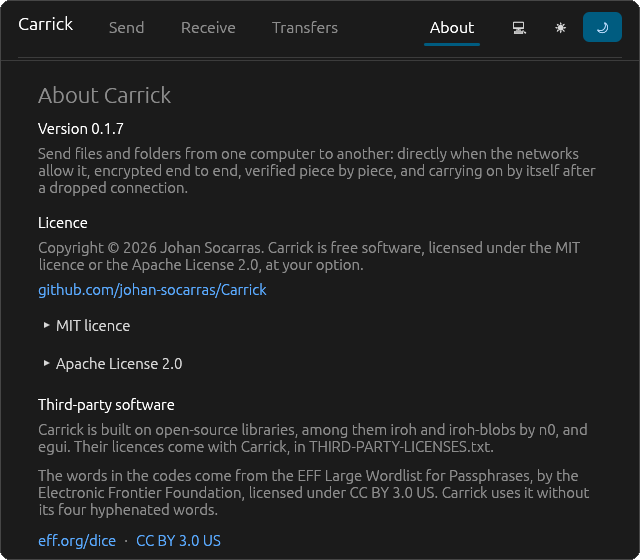
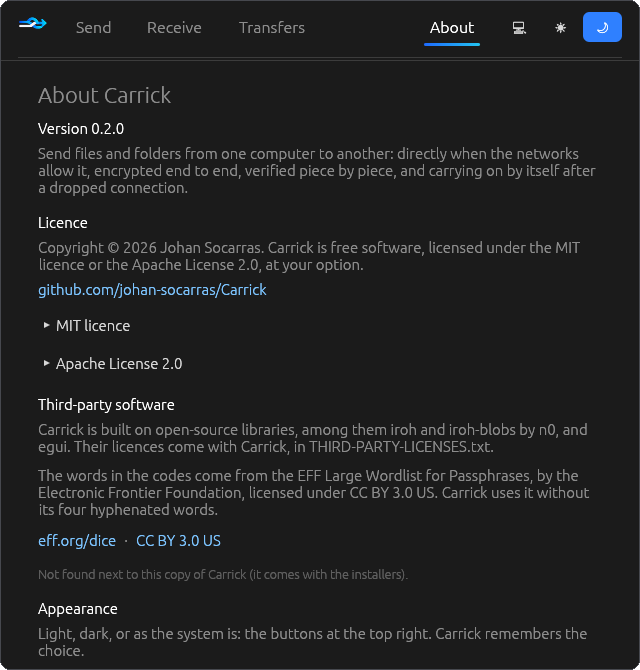
Show version 0.2.0 in the README and its screenshots
The screenshots are drawn again by the screens test, in the new colours,
and add the line of sends, a receive run by a terminal, the history and
the recent folders. The one of Unfinished goes: a send someone has in
full no longer stays there.

Changed region(s): [[0.0312, 0.0, 0.9688, 1.0], [0.0312, 0.0304, 0.5312, 0.0607]]

diff --git a/README.md b/README.md
@@ -88,27 +88,46 @@ The builds are in [Releases](https://github.com/johan-socarras/Carrick/releases)
   or keep both.
 - **Several receivers at once**, which also pass finished files to one
   another, so the sender does not have to upload everything to everyone.
+- **Sends wait in line.** A second send waits for the first instead of
+  sharing the connection with it, and **Send this first** lets an urgent one
+  go ahead; the one it passes pauses and carries on by itself after.
 - **No size, count or time limits.** Files are fingerprinted where they are,
   not copied first.
 
 ## The window
 
 `carrick-gui` has three screens, **Send**, **Receive** and **Transfers**, plus
-**About**. Drop files or a folder, and it shows the code in large type with a
-button to copy it. On the other computer, type the code, choose a folder, and
-follow the transfer: the speed now and on average, the time left and the time
-taken, and whether it goes directly or through a relay.
+**About**. Drop files or a folder, and it shows the code in large type, with
+**Copy** for the code and **Copy command** for the whole `carrick receive …`
+line, for a terminal on the other computer. On the other computer, type the
+code, choose a folder, and follow the transfer: the speed now and on average,
+the time left and the time taken, and whether it goes directly or through a
+relay.
 
 <p align="center">
-  <img src="docs/screenshots/receive-progress.png" width="49%" alt="A transfer arriving: 158 MiB of 521 MiB, directly, computer to computer">
-  <img src="docs/screenshots/transfers-sending.png" width="49%" alt="The sender's view: one receiver connected directly, 305 MiB of 521 MiB, at 305 MiB/s">
+  <img src="docs/screenshots/receive-progress.png" width="49%" alt="A transfer arriving: 30 percent of 521 MiB, at 151 MiB/s, directly, computer to computer">
+  <img src="docs/screenshots/transfers-sending.png" width="49%" alt="The sender's view: one receiver connected directly, 152 MiB of 521 MiB">
 </p>
 
-**Transfers** lists every transfer with its receivers, and what was left
-unfinished on this computer, to continue it or forget it:
+**Transfers** shows what is being copied now. A send started while another is
+on offer waits in line, and **Send this first** lets it go ahead. Transfers
+that a terminal runs on the same computer show up too, with their progress,
+instead of being offered to continue:
 
 <p align="center">
-  <img src="docs/screenshots/transfers-unfinished.png" width="60%" alt="A stopped transfer whose two receivers have everything, and below it, under Unfinished, the same transfer with Continue and Forget">
+  <img src="docs/screenshots/transfers-line.png" width="49%" alt="Two sends: one on offer, and the other paused while it goes first, with Send this first and Stop">
+  <img src="docs/screenshots/transfers-terminal.png" width="49%" alt="A receive running in a terminal on this computer: 3 GiB of 9 GiB, 40 minutes left, directly">
+</p>
+
+What ended goes to **Show history**, which keeps the last three: how large,
+when, how long it took, the average speed and the route. Below what is being
+copied, **Unfinished** lists what was stopped half way, to continue it or
+forget it. On the Receive screen, **Save to** opens with the folder used last
+time, and its arrow offers the last five:
+
+<p align="center">
+  <img src="docs/screenshots/transfers-history.png" width="49%" alt="The history: a send of 6 files and 521 MiB that took 9 seconds at 116 MiB/s on average, directly, and that 2 receivers got in full">
+  <img src="docs/screenshots/receive-recent.png" width="49%" alt="Save to with its list of recent folders open, each with a cross to take it off the list">
 </p>
 
 It is light, dark, or as the system is, from the buttons at the top right, and
@@ -139,21 +158,21 @@ On the other computer run:
 $ carrick receive dumpster-wikipedia-powwow-spectator
 Connected directly, computer to computer
 Receiving photos — 1203 file(s), 98.4 GiB
-Receiving    [==========>              ] 41.2 GiB/98.4 GiB  112 MiB/s  eta 8m
+Receiving [======>         ] 41.2 GiB/98.4 GiB 112 MiB/s eta 8m
 ```
 
 ```
 carrick send <PATH>...           offer files or folders, print the code
 carrick receive <CODE> [-o DIR]  receive into DIR (default: current folder)
 carrick resume                   continue everything unfinished on this computer
-carrick list                     show known transfers
+carrick list                     show known transfers, and which are running
 carrick cancel <ID>              forget a transfer
 carrick autostart on|off|status  run `resume` at sign-in, to survive a reboot
 ```
 
 | Option | What it does |
 |---|---|
-| `send --ticket` | Give a long ticket instead of a code. A ticket needs no lookup service, so it also works on a network without Internet. |
+| `send --ticket` | Give a long ticket instead of a code (the window calls it a long code). A ticket needs no lookup service, so it also works on a network without Internet. |
 | `send --receivers N` | Stop once N receivers have everything. By default the transfer stays on offer until you stop it. |
 | `receive --overwrite`, `--skip-existing`, `--keep-both` | What to do with destination files that differ from the incoming ones: replace them, leave them (and not fetch them), or save the incoming one beside as `name (2).ext`. Without any, Carrick asks, or keeps both if nobody is at the terminal. |
 | `receive --seed` | After finishing, keep passing files to other receivers. |

diff --git a/docs/testing.md b/docs/testing.md
@@ -16,14 +16,21 @@ hand.
   between endpoints in one process, with no relay and no Internet. A folder
   arrives identical; a stopped transfer leaves its finished files in place and continues
   from where it stopped; files that already exist are asked about, and are
-  skipped or replaced as answered.
+  skipped or replaced as answered. A send waits its turn off the network,
+  gives way to another and comes back while its receiver carries on; a send
+  someone has in full ends when stopped; a transfer cannot run twice on one
+  computer; the history keeps the last three; and, on Windows, a hidden
+  `desktop.ini` arrives hidden.
 - **The window** (`crates/carrick-gui/tests/window.rs`): the window is driven
   from code through its accessibility tree, with [egui_kittest], without being
   shown. Two windows in one process send a folder to each other through their
   buttons, and it arrives identical, with an empty file, an empty folder and
-  a non-ASCII name: drop a folder, ask for a ticket, *Start sending*, *Copy*; paste,
-  choose a folder, *Start receiving*. Then *Stop*, *Continue* and *Stop* again
-  from Transfers. Other tests cover a long name that must not push the buttons
+  a non-ASCII name: drop a folder, ask for a long code, *Start sending*, *Copy*
+  and *Copy command*; paste, choose a folder, *Start receiving*. Stopped, the
+  send ends and both sides find it under *Show history*. Other tests cover
+  *Stop* and *Continue* of a send nobody has yet, a second send that waits in
+  line and goes first, a receive run by a terminal on the same computer, the
+  recent folders of *Save to*, a long name that must not push the buttons
   out, *Forget*, the question about existing files, the light and dark modes,
   and the links in About.
 
